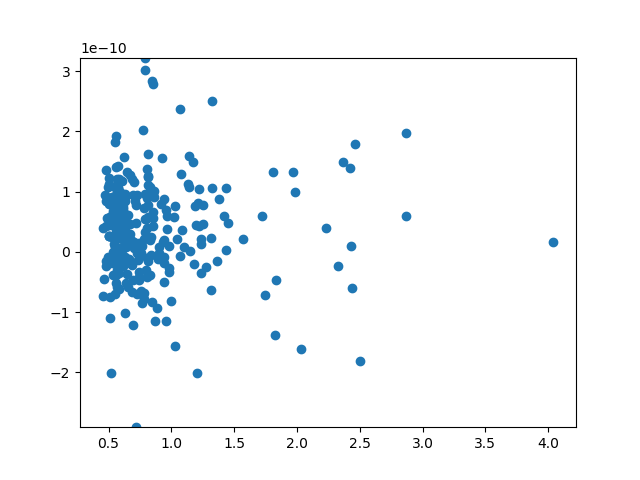
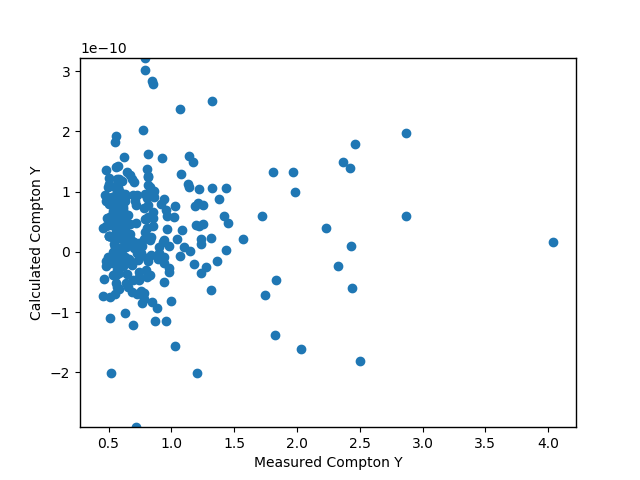
dded scatter plot of calculated vs measured Y

diff --git a/aperturephotometry.py b/aperturephotometry.py
@@ -92,8 +92,10 @@ plt.hist(S150s)
 plt.savefig("Flux 150 Hist")
 plt.close()
 
-# plt.scatter(MeasuredY,CalculatedY)
-# ymax=max(CalculatedY)
-# ymin=min(CalculatedY)
-# plt.ylim(ymin,ymax)
-# plt.savefig("Calculated vs Measured Y")
+plt.scatter(MeasuredY,CalculatedY)
+ymax=max(CalculatedY)
+ymin=min(CalculatedY)
+plt.ylim(ymin,ymax)
+plt.xlabel('Measured Compton Y')
+plt.ylabel('Calculated Compton Y')
+plt.savefig("Calculated vs Measured Y")
